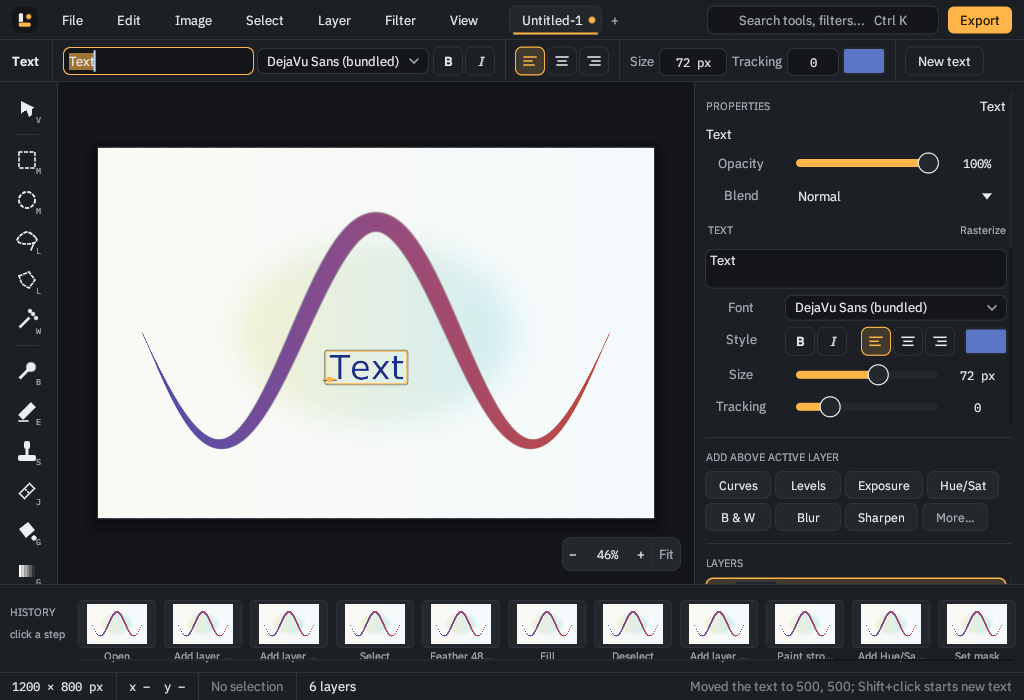
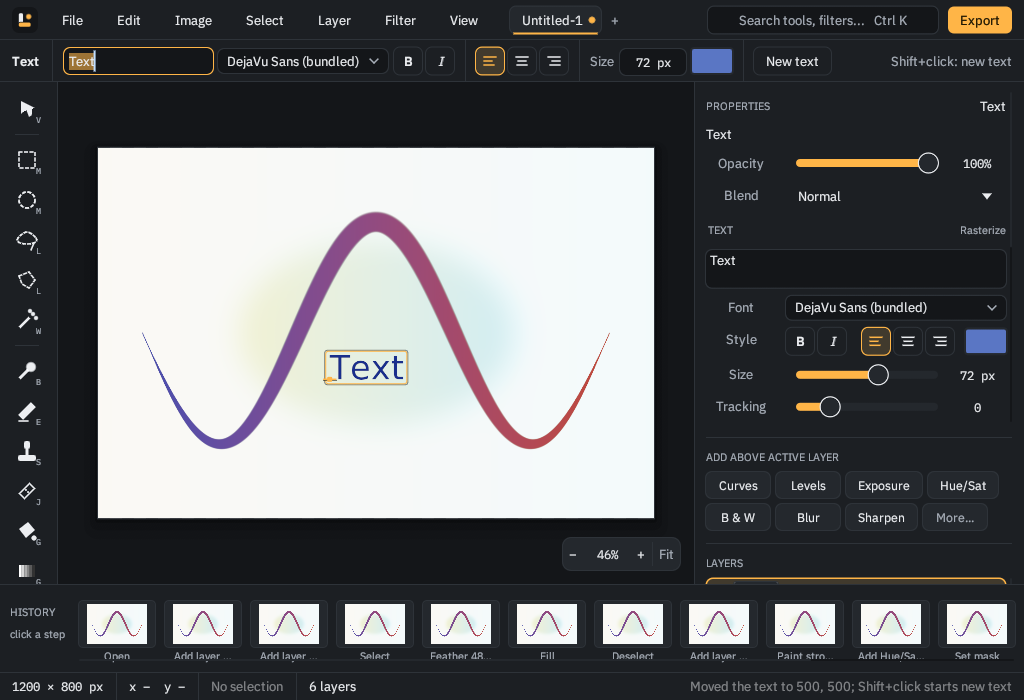
Text bar: keep the click hint at 1024 px by leaving Tracking to Properties
Below ~1100 px of bar width the Tracking box moves out of the options
bar (it stays in Properties) so "Shift+click: new text" still fits.
Screenshots retaken from a binary verified to contain this branch.

Changed region(s): [[0.2188, 0.06, 0.5938, 0.12], [0.625, 0.06, 0.7812, 0.12], [0.8125, 0.06, 0.9688, 0.12]]

diff --git a/crates/app/src/text_ui.rs b/crates/app/src/text_ui.rs
@@ -153,8 +153,11 @@ impl App {
         if let Some((id, mut t)) = editing {
             let before = t.clone();
             let mut finished = false;
-            // Everything right of the text field needs about this much.
-            let field_w = (ui.available_width() - 760.0).clamp(110.0, 240.0);
+            // On a narrow window Tracking stays in Properties so the hint
+            // still fits; the text field takes what is left.
+            let narrow = ui.available_width() < 1100.0;
+            let reserve = if narrow { 800.0 } else { 760.0 };
+            let field_w = (ui.available_width() - reserve).clamp(110.0, 240.0);
             let r = text_field(ui, &mut t.text, field_w);
             finished |= r.lost_focus();
             finished |= font_picker(ui, "bar", &mut t.font, 170.0);
@@ -164,8 +167,10 @@ impl App {
             bar_separator(ui);
             muted(ui, "Size");
             finished |= edit_finished(&value_field(ui, &mut t.size, 6.0..=400.0, " px", 66.0));
-            muted(ui, "Tracking");
-            finished |= edit_finished(&value_field(ui, &mut t.tracking, -200.0..=800.0, "", 50.0));
+            if !narrow {
+                muted(ui, "Tracking");
+                finished |= edit_finished(&value_field(ui, &mut t.tracking, -200.0..=800.0, "", 50.0));
+            }
             finished |= text_color_button(ui, &mut t.color);
             self.commit_text(id, &before, t, finished);
             bar_separator(ui);
